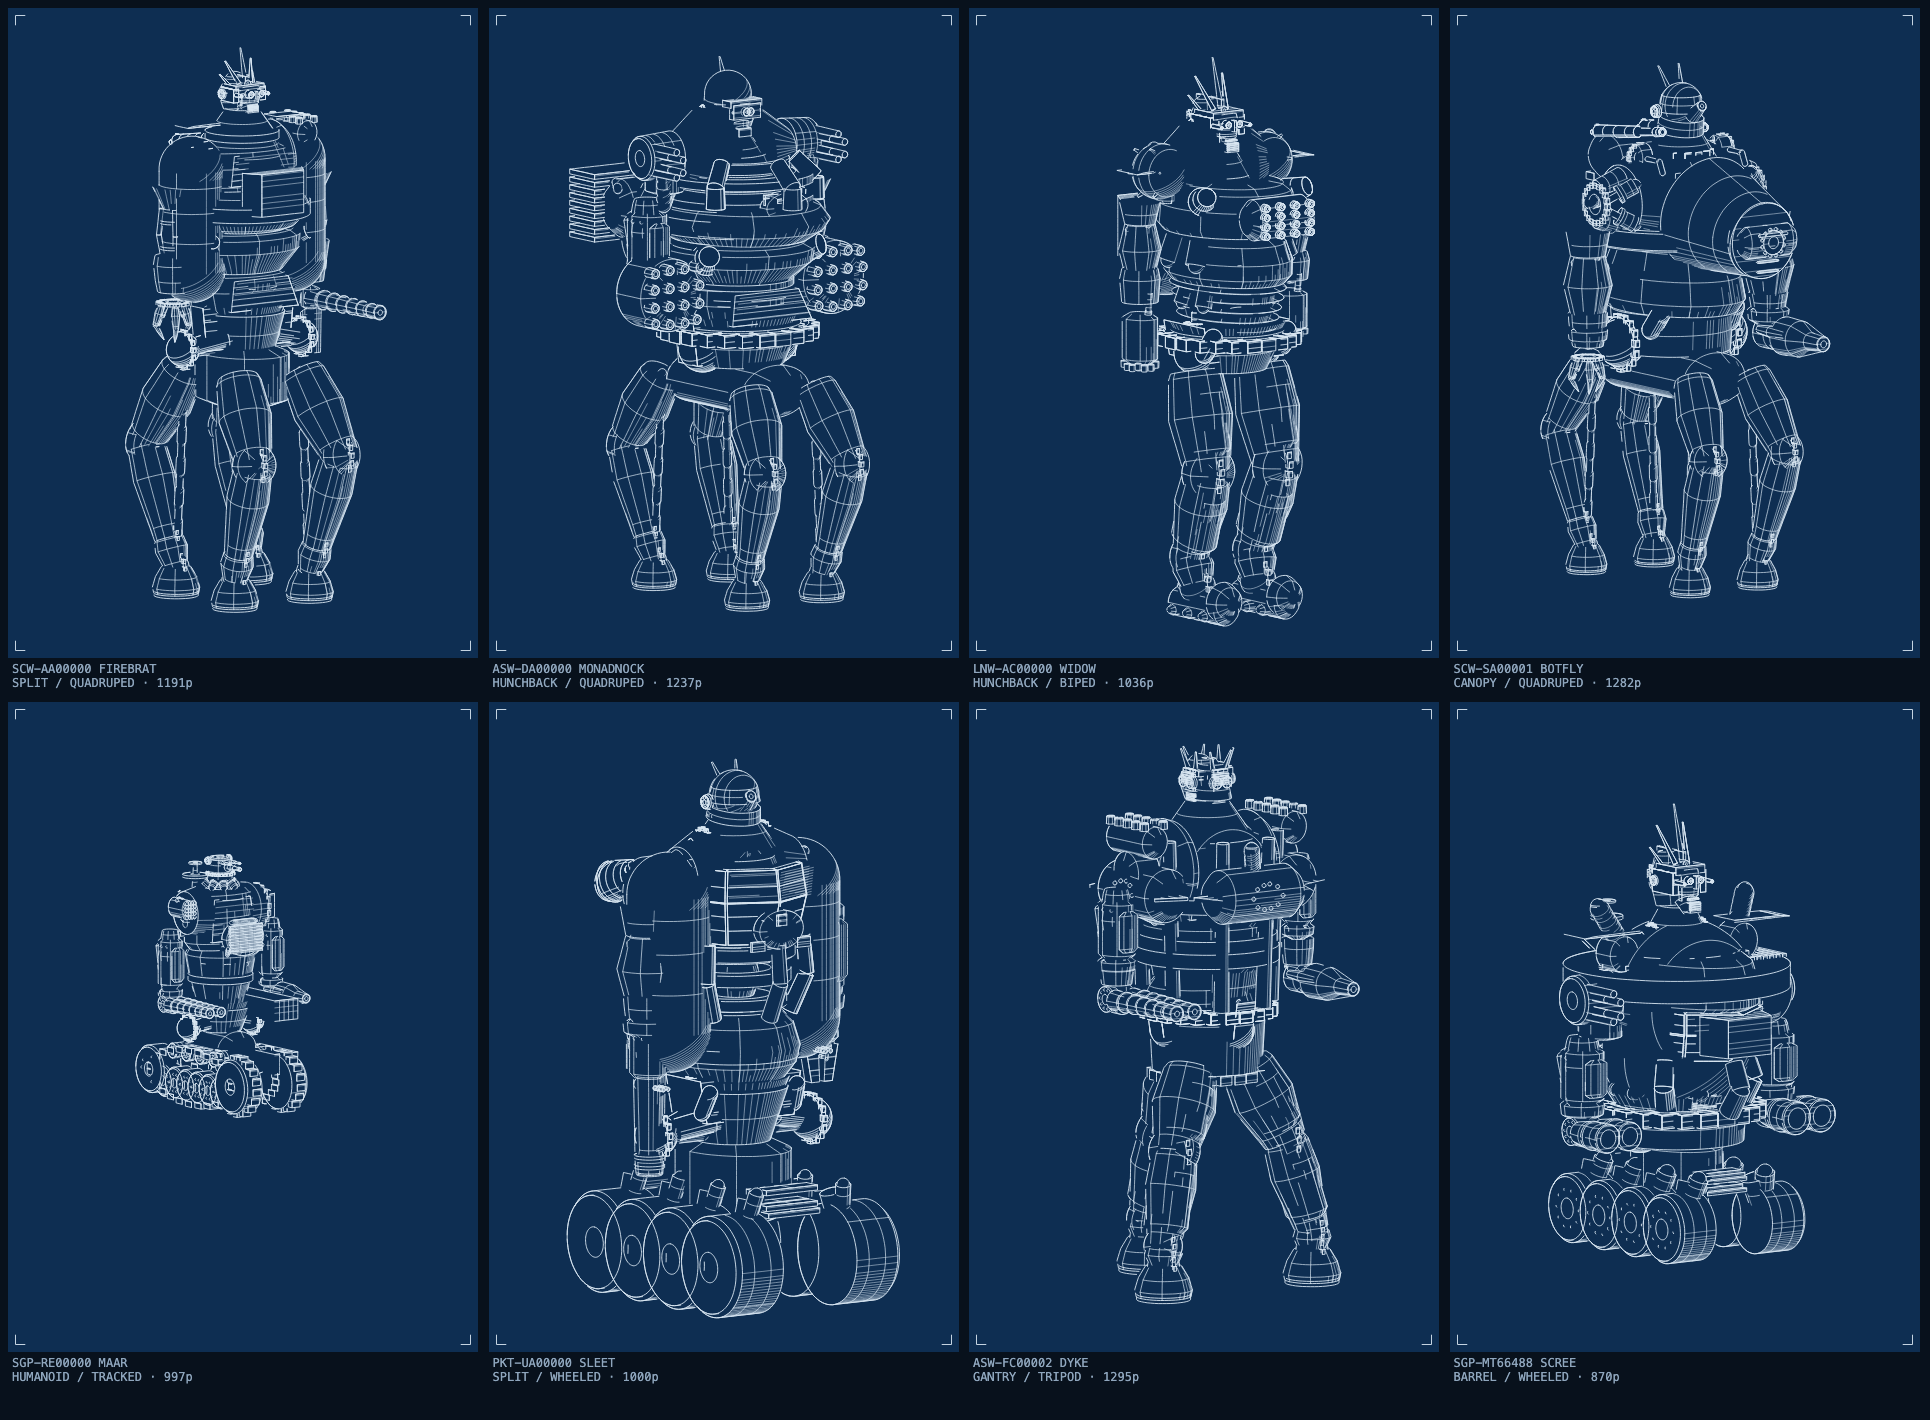
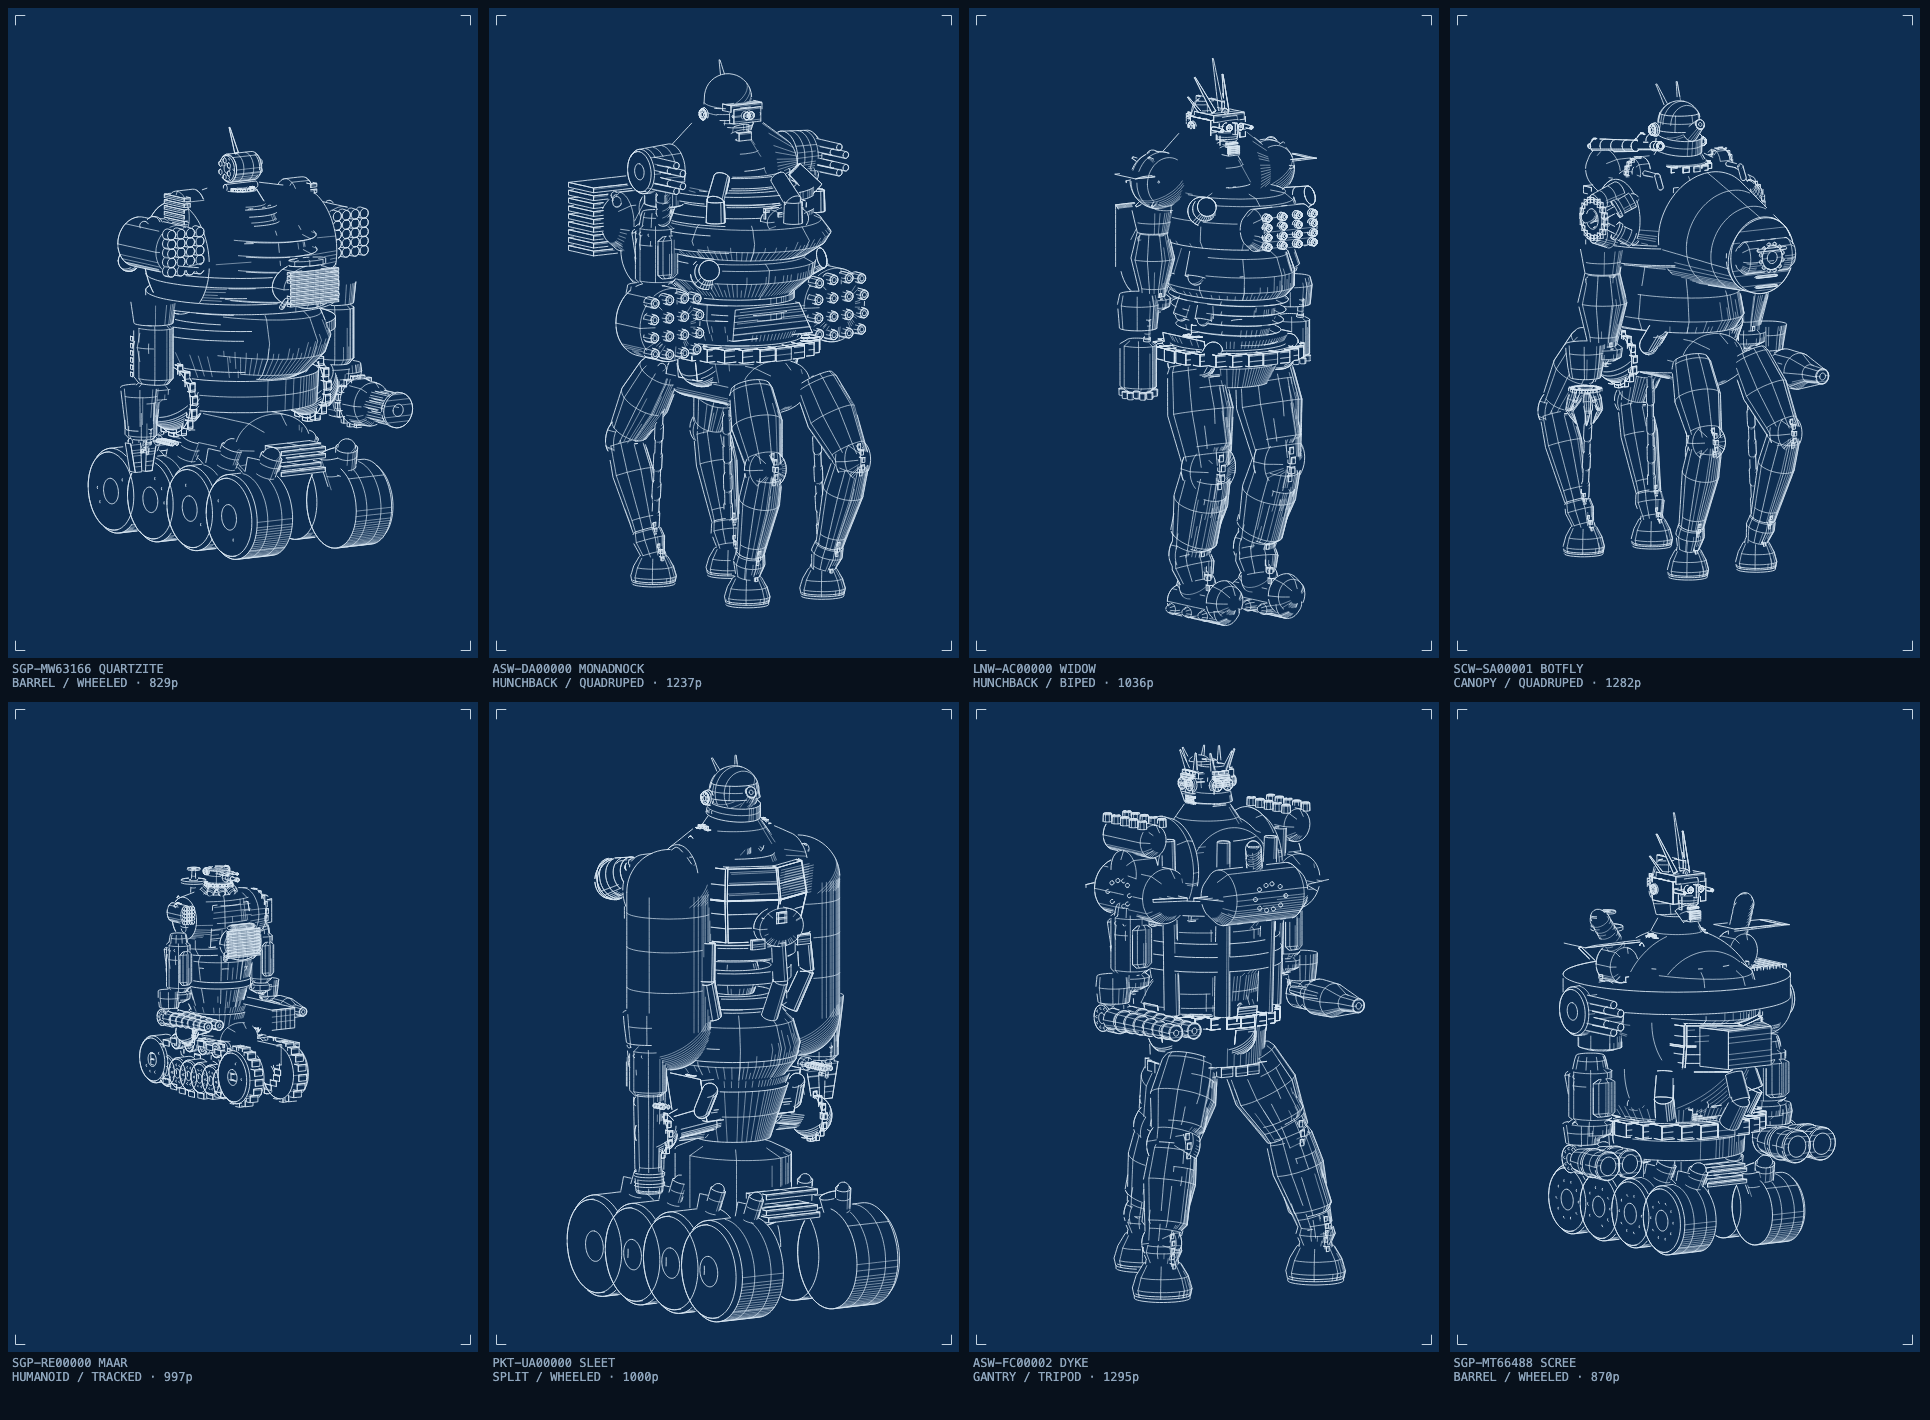
Place chained joins against the part, not against the promise
A child socket was placed a fixed way along its parent's ENVELOPE, which is only
right if variants fill their envelopes — and they do not. A missile box takes
half the yoke it is given, so the arm hung at a spread the yoke never reached.
Ask the parent where it actually got to instead: project what it built onto its
own outward axis, take the furthest, put the child there.

That halved the problem. The rest was the anchor set: a chained slot was allowed
to root in the chassis as well as its parent, so an arm counted as attached the
moment it grazed the torso and the drag stopped there, short of the yoke. Parent
only, with the chassis as fallback for when the parent was dropped.

Detached chained joins 8.1% to 0%; floating parts 0.24% to 0.06%.

diff --git a/index.html b/index.html
@@ -2611,10 +2611,38 @@ function buildMech(seed,P,lock){
   for(const h of HAND) for(const spec of SLOTS) if(spec.handed)
     jobs.push({id:spec.id,gid:spec.id+h,on:spec.on?spec.on+h:null,port:h==="L"});
 
+  /* ---- the chain rule, measured rather than assumed ----
+     A chained socket is placed a fixed way along its parent's ENVELOPE — the
+     head at 0.84 of the neck's allowance, the humerus at 0.68 of the yoke's.
+     That is only right if variants fill their envelopes, and they do not: a
+     missile box takes half the yoke it is given and varies the rest, so the arm
+     was left hanging at a spread the yoke never reached. Nothing was wrong with
+     the arm or the yoke; the join was placed against a promise instead of
+     against the part.
+     So ask the parent where it actually got to. Project everything it built
+     onto its own outward axis, take the furthest, and put the child there —
+     keeping whatever sideways offset the chassis asked for. Self-correcting for
+     every variant that already exists and every one added later. */
+  const REACH={head:0.92,upper:0.70,fore:0.86,drive:0.88};
+  const usedFr={};
   for(const spec of jobs){
     const id=spec.id, gid=spec.gid, base=chassis.sockets[id];
     if(!base)continue;
-    const sock=spec.port?Object.assign({},base,{fr:mirFrame(base.fr)}):base;
+    let sock=spec.port?Object.assign({},base,{fr:mirFrame(base.fr)}):base;
+    const pf=spec.on&&usedFr[spec.on];
+    if(pf&&groups[spec.on]&&groups[spec.on].length&&REACH[id]!=null){
+      const f=V.norm(pf.f);
+      let reach=0;
+      for(const q of groups[spec.on]) for(const [z] of partExtents(q))
+        reach=Math.max(reach,V.dot(V.sub(z,pf.o),f));
+      if(reach>1e-6){
+        const d=V.sub(sock.fr.o,pf.o), along=V.dot(d,f);
+        const perp=V.sub(d,V.mul(f,along));
+        sock=Object.assign({},sock,{fr:Object.assign({},sock.fr,
+          {o:V.add(pf.o,V.add(perp,V.mul(f,reach*REACH[id])))})});
+      }
+    }
+    usedFr[gid]=sock.fr;
     const list=VAR[id];
     let idx;
     if(lock&&lock[gid]!=null) idx=Math.min(lock[gid],list.length-1);
@@ -2632,8 +2660,14 @@ function buildMech(seed,P,lock){
     /* ---- attachment guarantee, per group, against its own parent ----
        A variant that ends up in mid-air is drawn back along its mounting
        direction until it bites. Dropped only if it never can. */
-    const anchor=spec.on&&groups[spec.on]&&!dropped.has(spec.on)
-      ? chassisSolids.concat(groups[spec.on]) : chassisSolids;
+    /* A chained socket must root in ITS PARENT, not in whatever happens to be
+       nearby. Handing it the chassis as well let an arm count as attached
+       because it grazed the torso, and the drag then stopped the moment it did
+       — leaving the humerus short of the yoke it is supposed to hang from,
+       which is the join anyone actually looks at. Parent only; the chassis is
+       the fallback for when the parent was dropped. */
+    const anchor=spec.on&&groups[spec.on]&&groups[spec.on].length&&!dropped.has(spec.on)
+      ? groups[spec.on] : chassisSolids;
     if(out.length&&!touches(out,anchor)){
       let cen=[0,0,0];
       for(const p of out)cen=V.add(cen,partCentroid(p));

diff --git a/README.md b/README.md
@@ -141,7 +141,20 @@ corners are the eight points of a box furthest from its own bulk, and a louvre
 seated snugly in a curved shell has all eight of them poking out through the
 surface.
 
-Measured across 40 machines, that took floating parts from 0.90% to 0.24%.
+Chained sockets get a second rule. A child is placed a fixed way along its
+parent's *envelope* — the humerus at 0.70 of the yoke's allowance — and that is
+only right if variants fill their envelopes, which they do not: a missile box
+takes half the yoke it is given, so the arm hung at a spread the yoke never
+reached. The join was being placed against a promise instead of against the
+part. Now the parent is asked where it actually got to: project everything it
+built onto its own outward axis, take the furthest, put the child there. And a
+chained slot roots in **its parent only** — handing it the chassis as well let
+an arm count as attached because it grazed the torso, and the drag then stopped
+the moment it did.
+
+Measured across 30–80 machines: floating parts 0.90% → 0.06%, and detached
+chained joins — head to neck, humerus to yoke, forearm to humerus, drive to
+girdle — 8.1% → 0%.
 
 The drawing is real orthographic projection with hidden-line removal: each mech
 is tessellated once into a depth buffer, and every line is clipped against it, so
